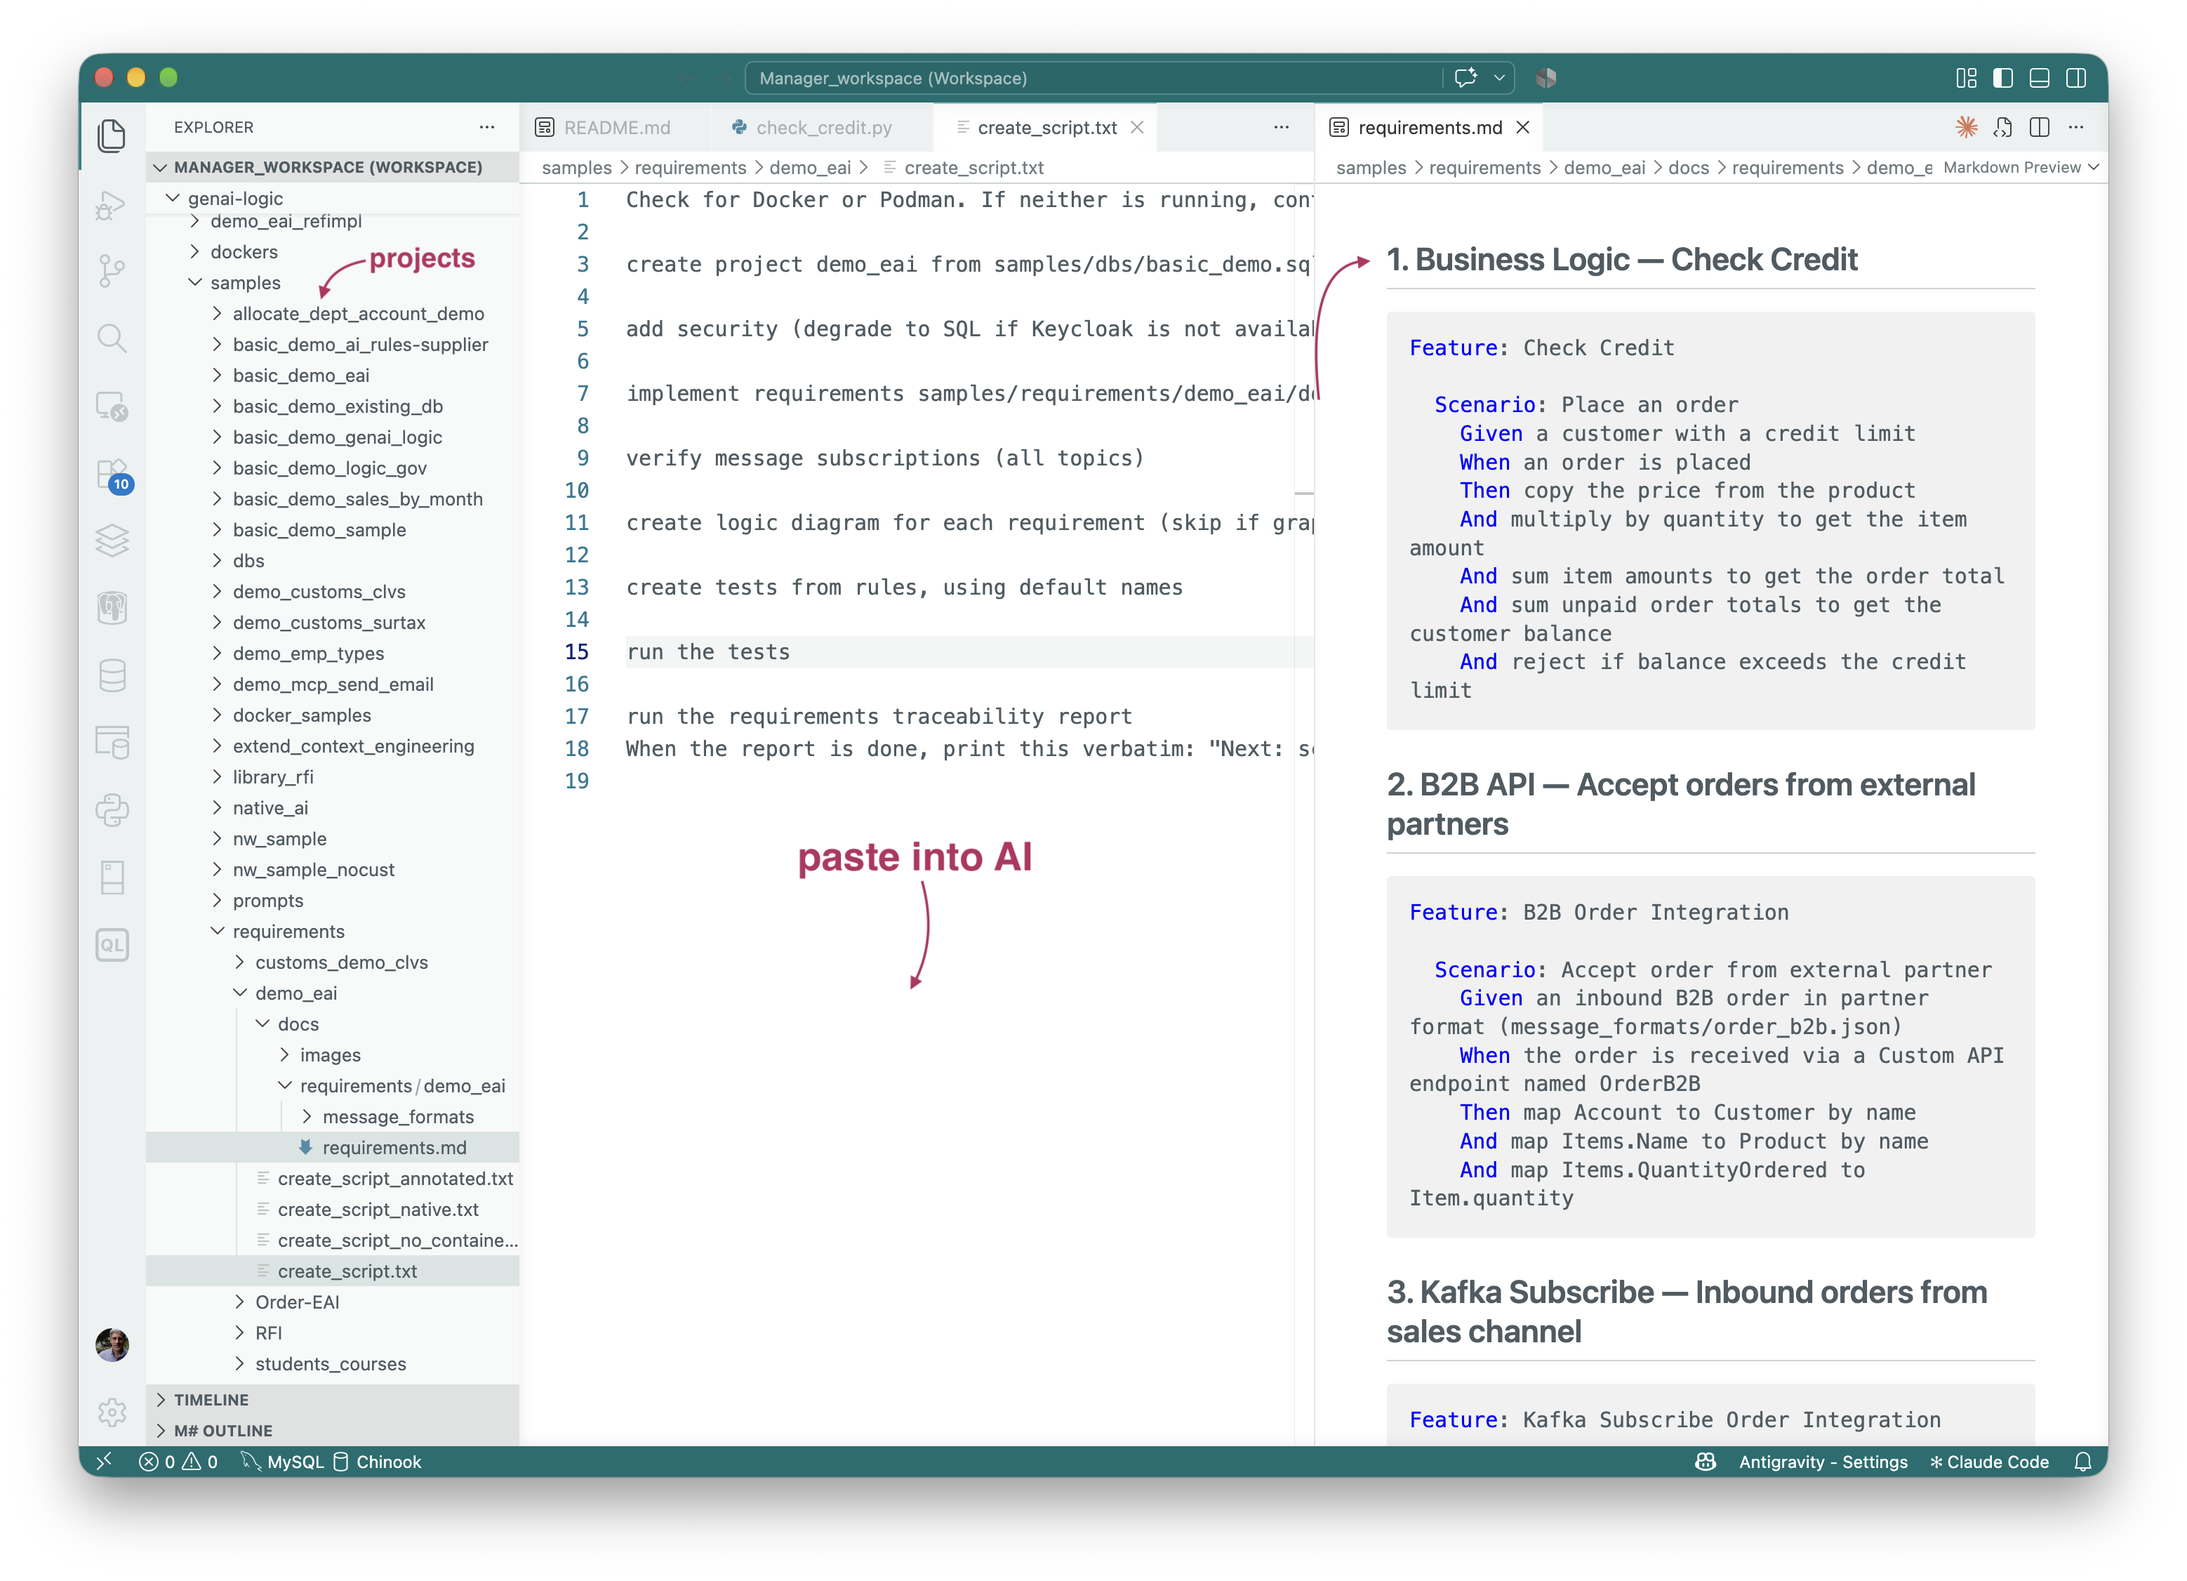
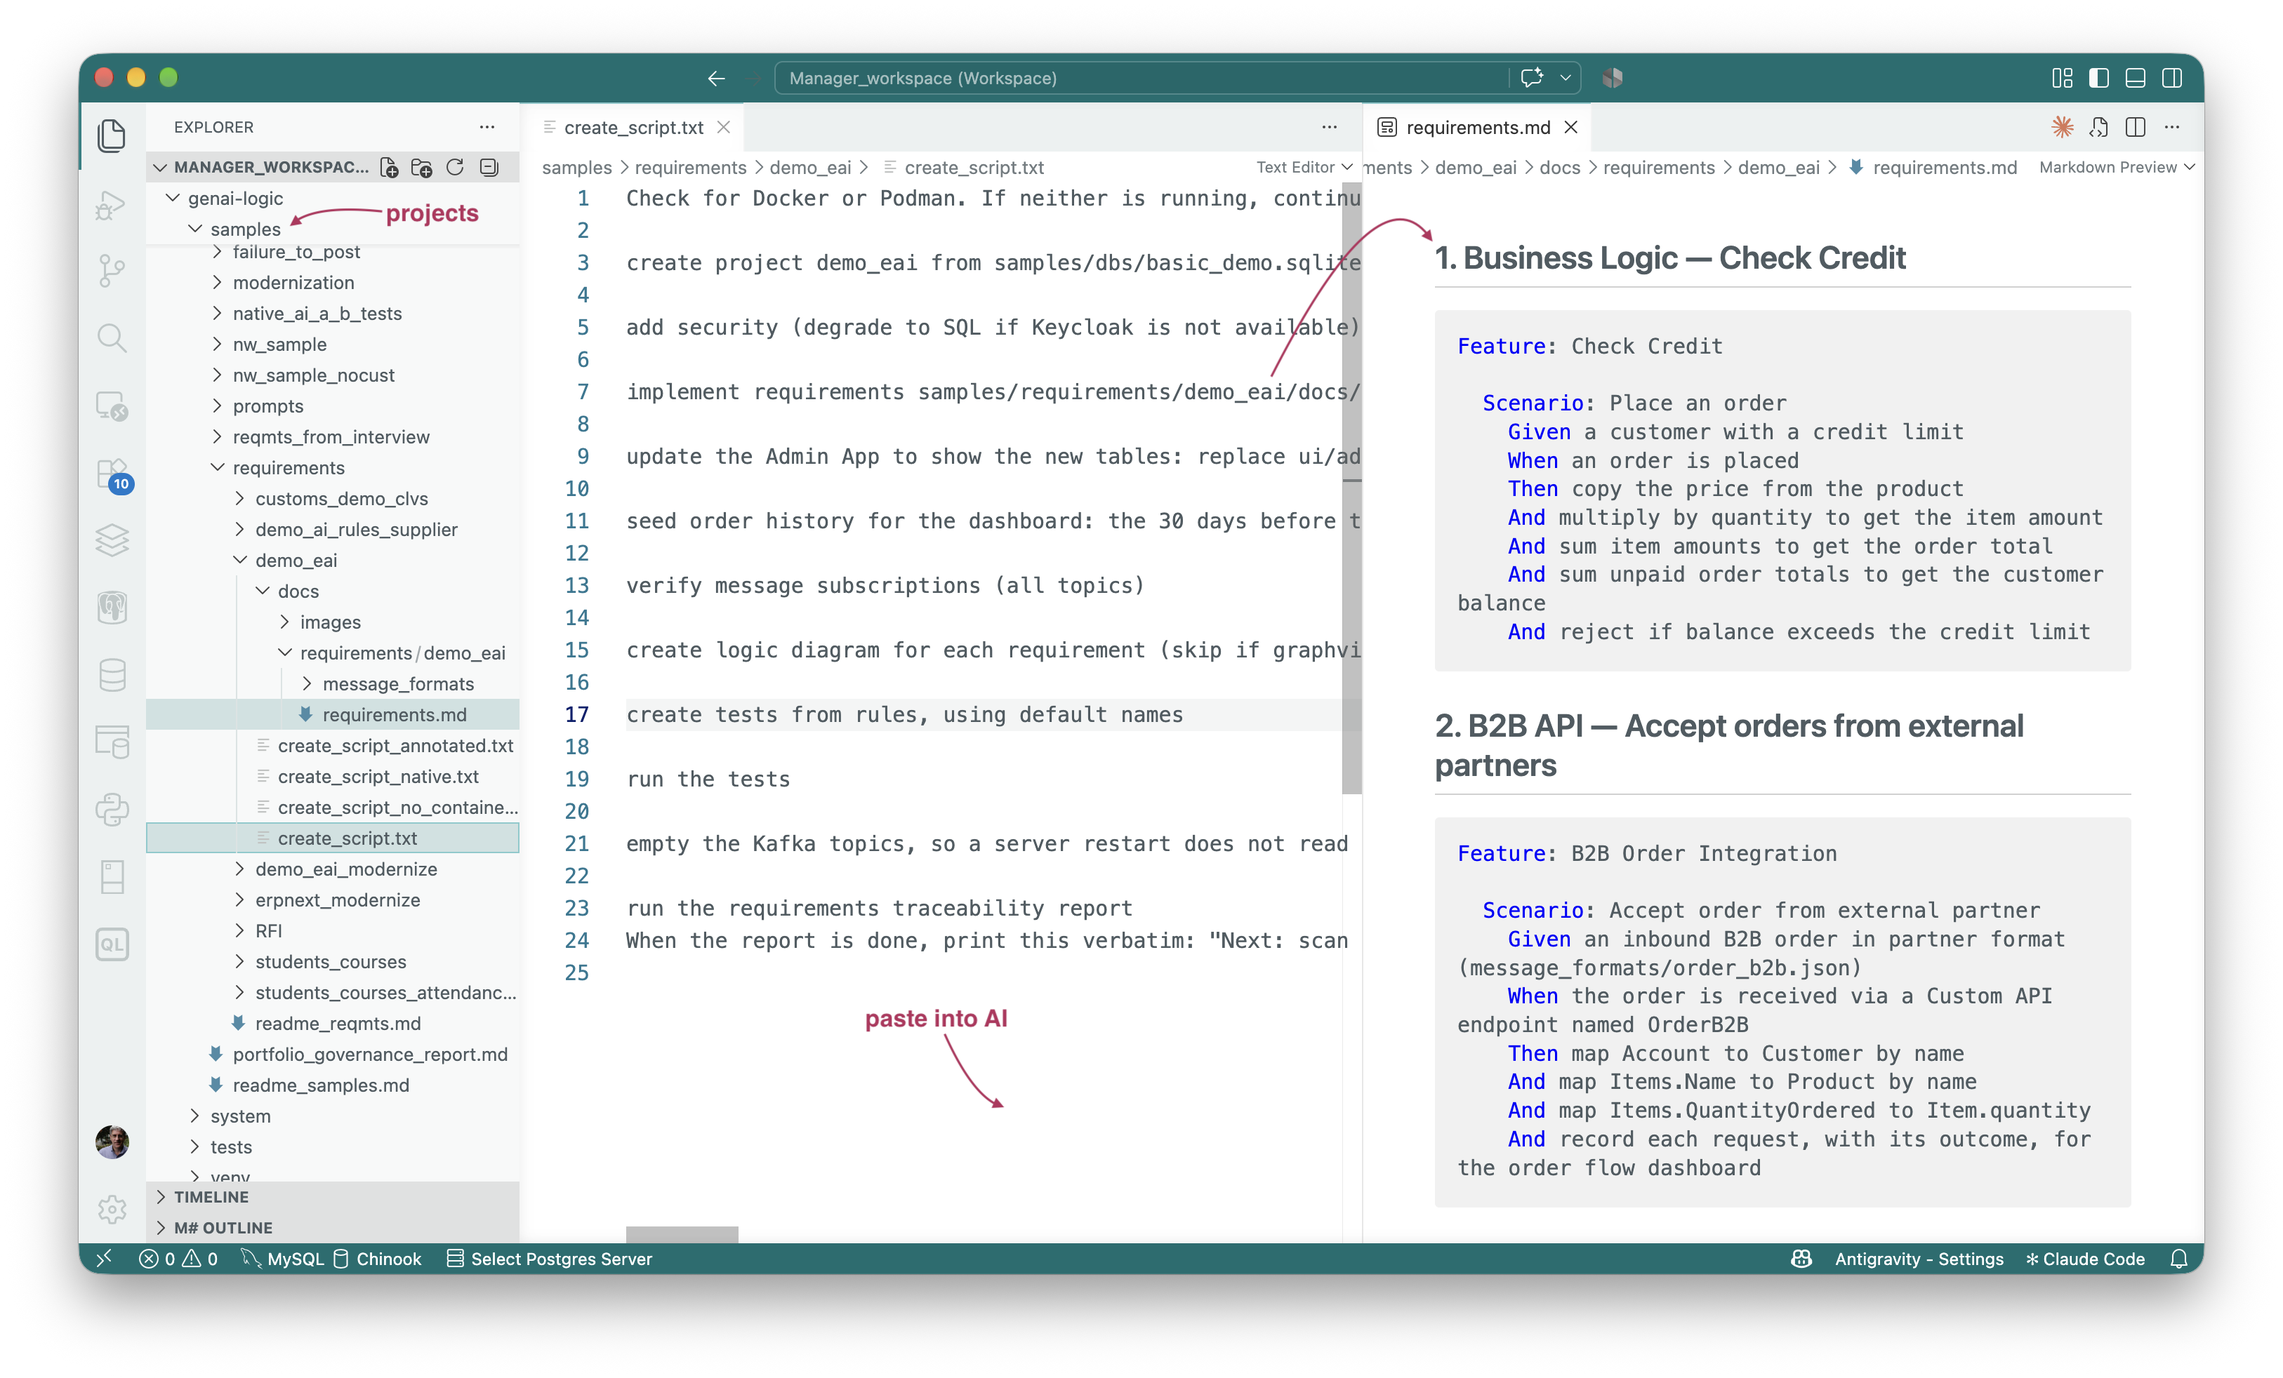
basic_demo_eai with dashboard

diff --git a/docs/Sample-Basic-EAI.md b/docs/Sample-Basic-EAI.md
@@ -1,7 +1,7 @@
 ---
 title: Sample_Basic_EAI
 do_process_code_block_titles: True
-version: 1.14 from docsite, for readme 10/24/2026 - one closing message (what to review, where the report is) instead of a mid-run "Built" line that runs did not print; (1.13: Build It is the adaptive clean script (sentences, no shell lines; degrades instead of stopping); (1.12: "This sample" instead of the project name (the same readme is fetched for demo_eai); (1.11: the no-container script is an opt-out of Docker/Podman, not only for machines without them; (1.10: 10/24/2026 - no-container script (Docker/Podman optional); (1.9: 10/20/2026 - no bootstrap prompt; Build It adds diagrams, tests, run tests, Behave Logic Report. (1.8: message_formats auto-included in prototype, xr))
+version: 1.15 from docsite, for readme 11/19/2026 - requirement 6, Operations Dashboard (order flow), and the seeded order history it charts; (1.14: for readme 10/24/2026 - one closing message (what to review, where the report is) instead of a mid-run "Built" line that runs did not print; (1.13: Build It is the adaptive clean script (sentences, no shell lines; degrades instead of stopping); (1.12: "This sample" instead of the project name (the same readme is fetched for demo_eai); (1.11: the no-container script is an opt-out of Docker/Podman, not only for machines without them; (1.10: 10/24/2026 - no-container script (Docker/Podman optional); (1.9: 10/20/2026 - no bootstrap prompt; Build It adds diagrams, tests, run tests, Behave Logic Report. (1.8: message_formats auto-included in prototype, xr))
 source: docs/Sample-Basic-EAI.md
 Propagation: see api_logic_server_cli/sample_mgr/create_readme.py
 ---
@@ -53,6 +53,9 @@ subscribes and publishes, so there's no second project to stand up:
 
 5. **Standard APIs** for ad-hoc integration, user interfaces, etc
 
+6. **Operations Dashboard:** charts on the Admin App home page showing that orders
+   are flowing — messages received, processed and rejected per day, and orders per day
+
 &nbsp;
 
 ## Creation and Setup
@@ -81,9 +84,9 @@ there.
 ## Build It
 
 One sentence creates the project; one sentence executes **every** requirement below
-(Check Credit, B2B API, Kafka Subscribe, Kafka Publish, Security) — steps A-C are the
-**entire build**, not the first of several. Steps D-H (Kafka check, diagrams, tests, report) are
-optional extras that verify and document it. Here is the whole procedure, then what each step means:
+(Check Credit, B2B API, Kafka Subscribe, Kafka Publish, Security, Operations Dashboard) — steps A-C are the
+**entire build**, not the first of several. Step C2 seeds history for the dashboard, and steps D-H (Kafka check,
+diagrams, tests, report) are optional extras that verify and document it. Here is the whole procedure, then what each step means:
 
 > **Important:** be sure your AI assistant is in "Agent" mode ("Ask" will not work). No bootstrap prompt is needed: the Manager's context loads automatically when you open it in your AI assistant.
 
@@ -99,6 +102,9 @@ add security (degrade to SQL if Keycloak is not available)
 
 // C - Implement Requirements
 implement requirements samples/requirements/demo_eai/docs/requirements/demo_eai
+
+// C2 - Seed order history
+seed order history for the dashboard: the 30 days before today, through the rules (not SQL), with weekday and weekend volumes, one day with mostly rejected messages, and no activity 3 and 2 days ago
 
 // D - Verify Kafka
 verify message subscriptions (all topics)
@@ -140,7 +146,8 @@ When the report is done, print this verbatim: "Next: scan these two files: logic
 | **0 - Environment** | Your assistant checks for Docker or Podman. With neither running it says so up front and continues in degraded mode (SQL security, Kafka tested through the debug endpoint). |
 | **A - Create Project** | Creates a working, MCP-enabled API and Admin App from the existing database (and the `genai-logic` CLI to manage it). No logic yet. |
 | **B - Security** | Keycloak when a container runtime is running, else the SQL authentication provider that ships in the project, so the row-level security requirement (§5) is enforced either way. You are told which was used. |
-| **C - Implement Requirements** | The build: the requirements (5 Gherkin features, plus the message formats) are copied into the project, and your AI assistant writes the rules, the Custom API, the Kafka subscribe and publish, and the security declarations. It also writes `ad-libs.md`, the judgment calls it made, for you to review (the closing message points you at it). Sections 2-5b and 7 below tour what it produced. |
+| **C - Implement Requirements** | The build: the requirements (6 Gherkin features, plus the message formats) are copied into the project, and your AI assistant writes the rules, the Custom API, the Kafka subscribe and publish, the security declarations, and the dashboard. It also writes `ad-libs.md`, the judgment calls it made, for you to review (the closing message points you at it). Sections 2-5b, 7 and 8 below tour what it produced. |
+| **C2 - Seed Order History** | Gives the dashboard 30 days of history to chart (Section 8). A script run inside the app writes the orders and message rows through the ORM with the rules active, so every amount, total and balance is derived and the credit limit checked. It does **not** go through the B2B API or Kafka: the mapper, the consumers and their error recording are exercised by the tests (step F), not by the seed. Deterministic: a rebuild draws the same picture. |
 | **D - Verify Kafka** | With a broker running: enables live Kafka, resets the topics first (messages left by earlier runs would otherwise be replayed), sends the sample message, and confirms a processed blob and a new order. With no broker it verifies the simulated path and says so. |
 | **E - Logic Diagrams** | Draws the rule chain for each requirement as an SVG; the report shows each one under its requirement. Skipped with a one-line note if graphviz is missing. |
 | **F - Create Tests** | Writes Behave scenarios from the rules. "Default names" means each Feature is named exactly as its requirement, so the report can show, per requirement, which tests exercised it. |
@@ -152,7 +159,7 @@ When the report is done, print this verbatim: "Next: scan these two files: logic
 * A scenario that reads a message back from the `order_shipping` topic needs a live broker (Section 6, Step 6); every other scenario runs with no Kafka.
 * The full requirements spec that step C executes is
   [docs/requirements/demo_eai/requirements.md](https://github.com/ApiLogicServer/ApiLogicServer-src/blob/main/api_logic_server_cli/prototypes/manager/samples/requirements/demo_eai/docs/requirements/demo_eai/requirements.md).
-  **Sections 2-5b and 7 below are a tour of what step C built** — each maps back to the requirement that produced it. They are not additional steps to run.
+  **Sections 2-5b, 7 and 8 below are a tour of what step C built** — each maps back to the requirement that produced it. They are not additional steps to run.
 
 This is a real project: your IDE, your Python, your source control. The prompt creates it in minutes — but you own it fully and iterate from there. Change a rule; the engine determines execution order automatically. Add an endpoint; the rules are already there waiting for it.
 
@@ -453,3 +460,113 @@ Feature: Kafka Publish Shipping Notification
 AI reads the format file and `models.py` and maps by name.  Direct matches are silent; uncertain ones get `# TODO: verify` in `FIELD_EXCEPTIONS`; anything unresolvable is added to `_unresolved` and **blocks server start** — reported to you in chat immediately.
 
 For full details and generated code examples, see [Integration EAI — Publish](Integration-EAI.md#publish--outbound-kafka-messages){:target="_blank" rel="noopener"}.
+
+
+<br>
+
+## 8. Requirement §6 — Operations Dashboard (Order Flow)
+
+Rules govern each transaction. An operator also wants to know that transactions are *flowing*: arriving, being
+processed, and not piling up as rejects. Requirement §6 puts that on the Admin App home page. This is the result,
+after the build and the seed step (C2):
+
+![order flow dashboard, from the seed step of the create script](images/integration/demo_eai/bus_order_flow/Bus-governance.png)
+
+The left chart is orders per day (count and amount). The right chart is, per day, the `order_b2b` Kafka messages and
+the B2B API requests: processed, rejected, and not yet done. The seeded history shows what an operator looks for: a
+**bad-data day** (messages keep arriving, but most are rejected) and the **flow stopping** (two days with no activity),
+then recovery.
+
+<details markdown>
+
+<summary>The requirement</summary>
+
+<br>
+
+![requirement §6](images/integration/demo_eai/bus_order_flow/order_flow_totals_reqs.png)
+
+Requirement §2 adds one clause the dashboard depends on: *record each request, with its outcome* — so a rejected
+B2B request leaves a row to count, not just an HTTP 400.
+
+</details>
+
+<details markdown>
+
+<summary>The rules: daily totals, maintained by the engine (note use of insert_parent)</summary>
+
+<br>
+
+The `insert_parent` argument directs the engine to create parents on sum/count adjustment.
+
+![daily totals rules](images/integration/demo_eai/bus_order_flow/order_flow_totals_rules.png)
+
+The totals are not computed when the page opens; they are **rules**, kept current on every transaction, like any
+other derived value:
+
+* **One row per day** (`DailyFlow`), keyed by the day each Order, message and request arrived (`CreatedOnDay`, set by
+  date stamping).
+* **`insert_parent=True`**: the first arrival of a day creates that day's row; every later one adjusts it. Nothing
+  pre-creates days.
+* **Counts and sums** of each kind of arrival, with `where=` for processed and rejected; **not yet done** is a
+  formula: received − processed − rejected.
+* **Every write path counts**: the B2B API, the Kafka consumers and the Admin App all go through the same rules.
+  A failed message or request records its reason (`error_text`) through the same governed session, so the rules
+  count the rejection.
+
+The page only reads `DailyFlow` (`api/api_discovery/dashboard_services.py`), fills a day with no row as zero (so the
+chart can show the flow stopping), and renders on every request, not cached.
+
+</details>
+
+<details markdown>
+
+<summary>The logic diagram</summary>
+
+<br>
+
+![daily totals logic diagram](images/integration/demo_eai/bus_order_flow/order_flow_totals_dgm.png)
+
+From the Requirements Traceability Report: each arrow is a numbered rule, from the arriving rows (Order,
+OrderB2bMessage, OrderB2bRequest) to the day's totals.
+
+</details>
+
+<details markdown>
+
+<summary>The page: how the totals reach the screen</summary>
+
+<br>
+
+![dashboard implementation](images/integration/demo_eai/bus_order_flow/order_flow_totals_impl.png)
+
+The rules are the easy part; getting the totals onto the home page takes five hops:
+
+1. **`ui/admin/home.js`**: the Admin App home page is a fixed HTML string, so it holds one `<iframe>` pointing at `/dashboard`.
+2. **`/dashboard`** returns one iframe per chart.
+3. **`/chart_graphics/<name>`** calls that chart's function, listed in `CHARTS`.
+4. **The chart function** (for example `order_volume_query()`) reads the `DailyFlow` rows, fills quiet days with zeros, and returns a plain dict.
+5. **`ui/templates/multi_series_chart.jinja`** writes the dict into a page that draws it with Chart.js.
+
+Hops 2-4 are in `api/api_discovery/dashboard_services.py`. To add a chart, add a function and a `CHARTS` entry;
+`home.js` does not change. The project's `api/api_discovery/dashboard_services_readme.md` explains why each hop
+exists, the dict the template expects, and what to add for production (a login).
+
+</details>
+
+**Where the history comes from: step C2, and what it is not.** A new project has only today's test data, so the
+charts would be one spike at the right edge. Step C2 seeds the 30 days before today
+(`database/test_data/seed_order_flow.py`). The seed writes through the ORM inside the app with the rules active:
+every item price and amount, order total, customer balance and daily total is derived by the rules, and the credit
+limit is checked. It is **not** delivered through the B2B API or Kafka: the seeded messages and requests are written
+already processed (or rejected, with an error text the seed supplies). The tests (step F) exercise the real API and the
+real topic. The seed is deterministic (fixed random seed, dates relative to today) and refuses to run twice.
+
+> **Retention:** order, message and request rows are never purged. The totals count them, so deleting rows would
+> lower past days' totals. The logic file carries a TODO with the options.
+
+> **Live Kafka and restarts:** the consumer commits its offsets, so a restart does not read old messages again
+> (`APILOGICPROJECT_KAFKA_COMMIT_OFFSETS`, on by default; see `config/default.env`). The create script empties the
+> topics after the tests, so the test messages are not replayed into a later demo.
+
+For how to ask your AI assistant for queries and dashboards in your own project, see
+[Admin Customization — AI Assistant](Admin-Customization.md#ai-assistant){:target="_blank" rel="noopener"}.

diff --git a/docs/Admin-Vibe-Sample.md b/docs/Admin-Vibe-Sample.md
@@ -96,7 +96,7 @@ The Landing Page Graphics requires you `genai-logic genai-graphics`.  For more i
 
 ![nw-landing](images/ui-vibe/nw/genai-landing.png)
 
-We first created the graphics, as [described here](WebGenAI-CLI.md#dashboard-graphics){:target="_blank" rel="noopener"}.
+We first created the graphics with the AI Assistant, as [described here](Admin-Customization.md#ai-assistant){:target="_blank" rel="noopener"}.
 
 We then requested a landing page (no hints on product architecture, by the way... we did not ask where it acquired this information).
 

diff --git a/docs/WebGenAI-CLI.md b/docs/WebGenAI-CLI.md
@@ -375,6 +375,9 @@ Since the logic is in separate directories, the system is able to support ongoin
 
 ## Dashboard Graphics
 
+!!! warning "Retired"
+    The `genai-graphics` command described below has been removed.  Ask your AI Assistant instead - see [AI Assistant](Admin-Customization.md#ai-assistant).
+
 The simplest way to create Dashboard Graphics is the Admin Assistant.  For more information, [click here](Admin-Customization.md#ai-assistant).
 
 You can also use the CLI to create Dashboard Graphics:
